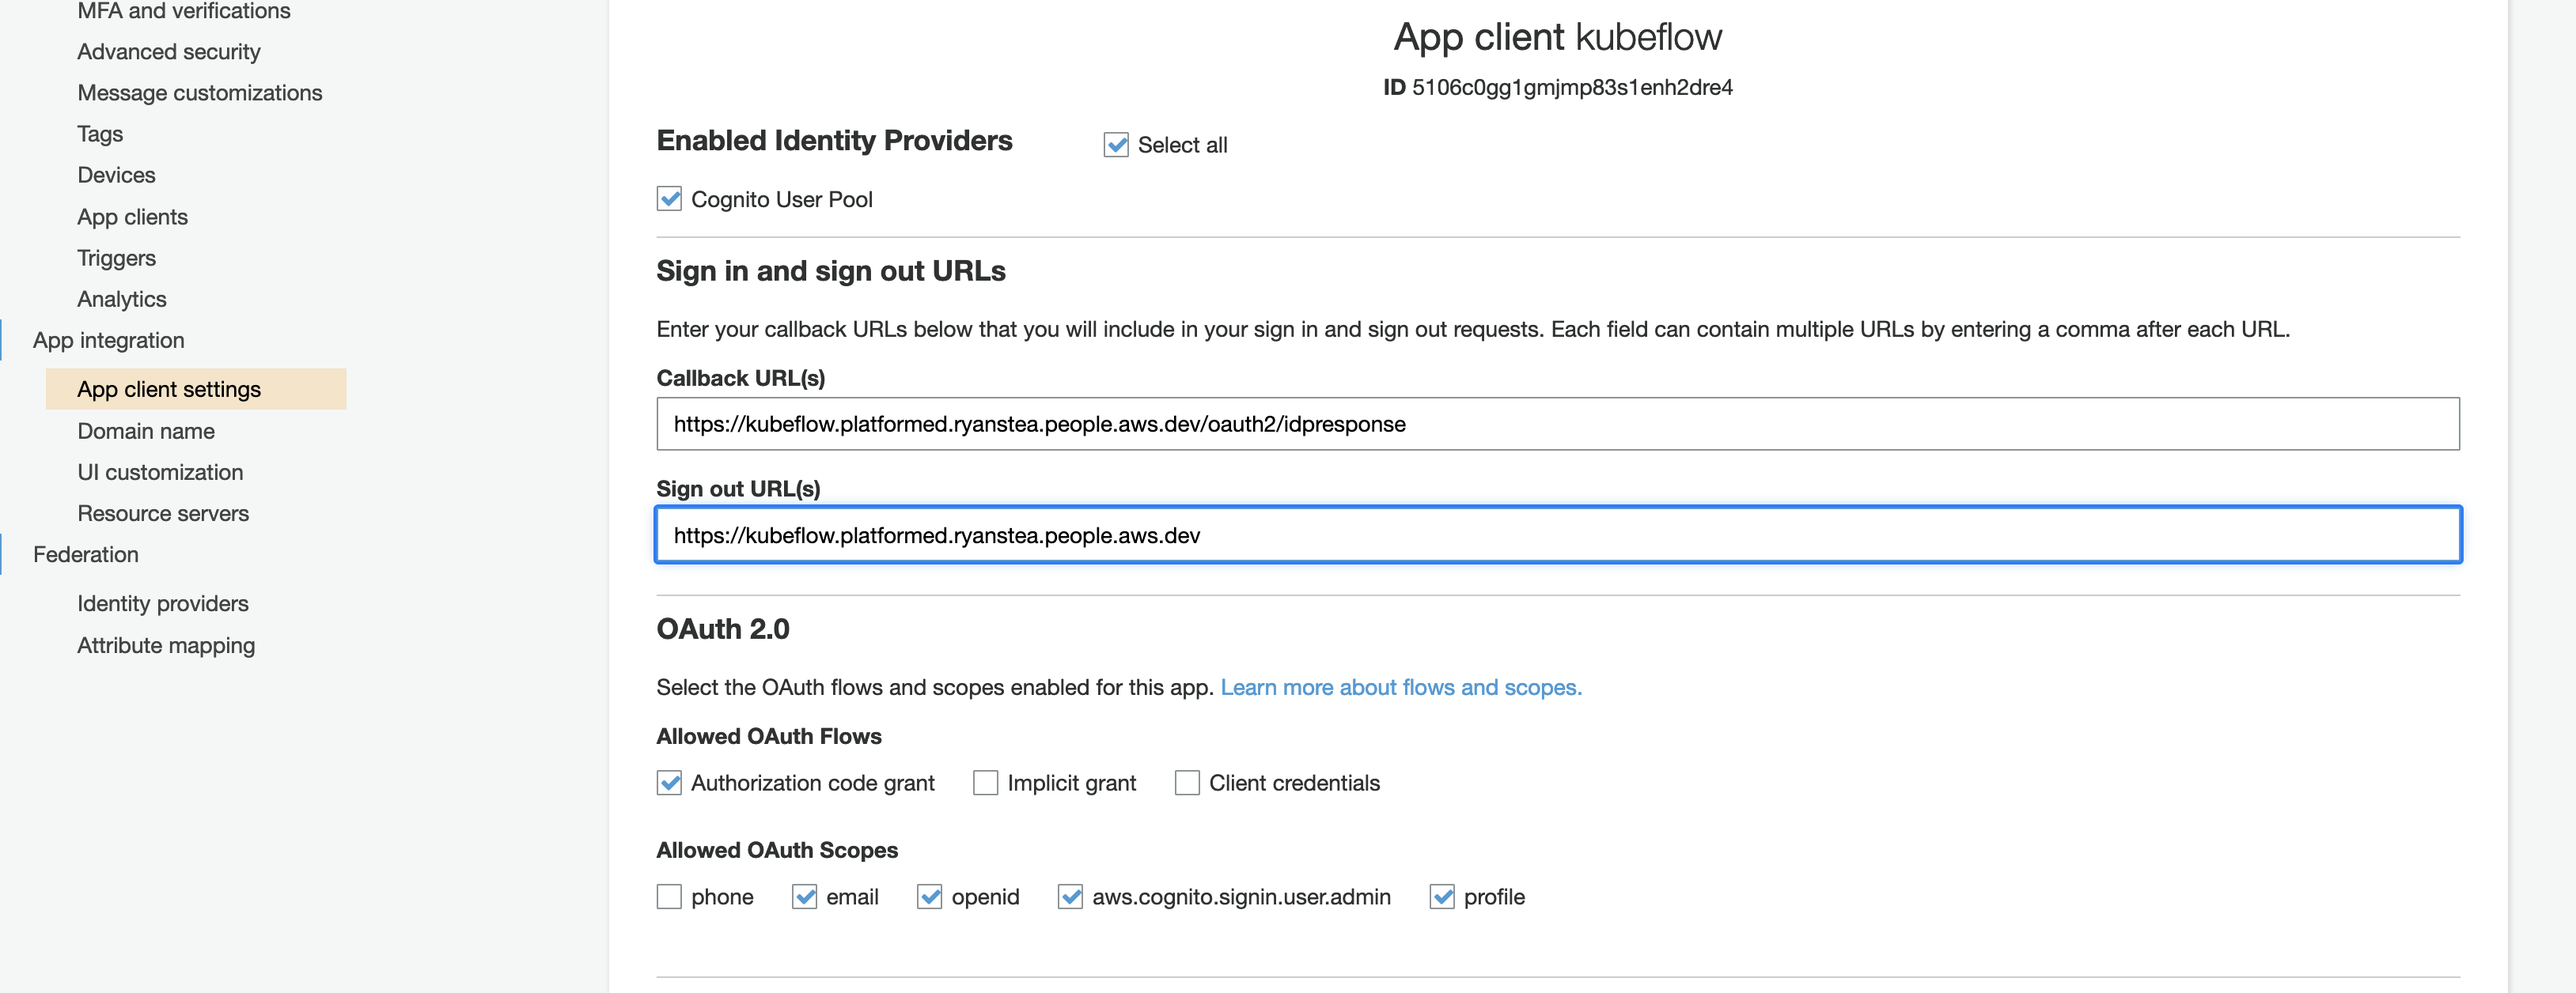
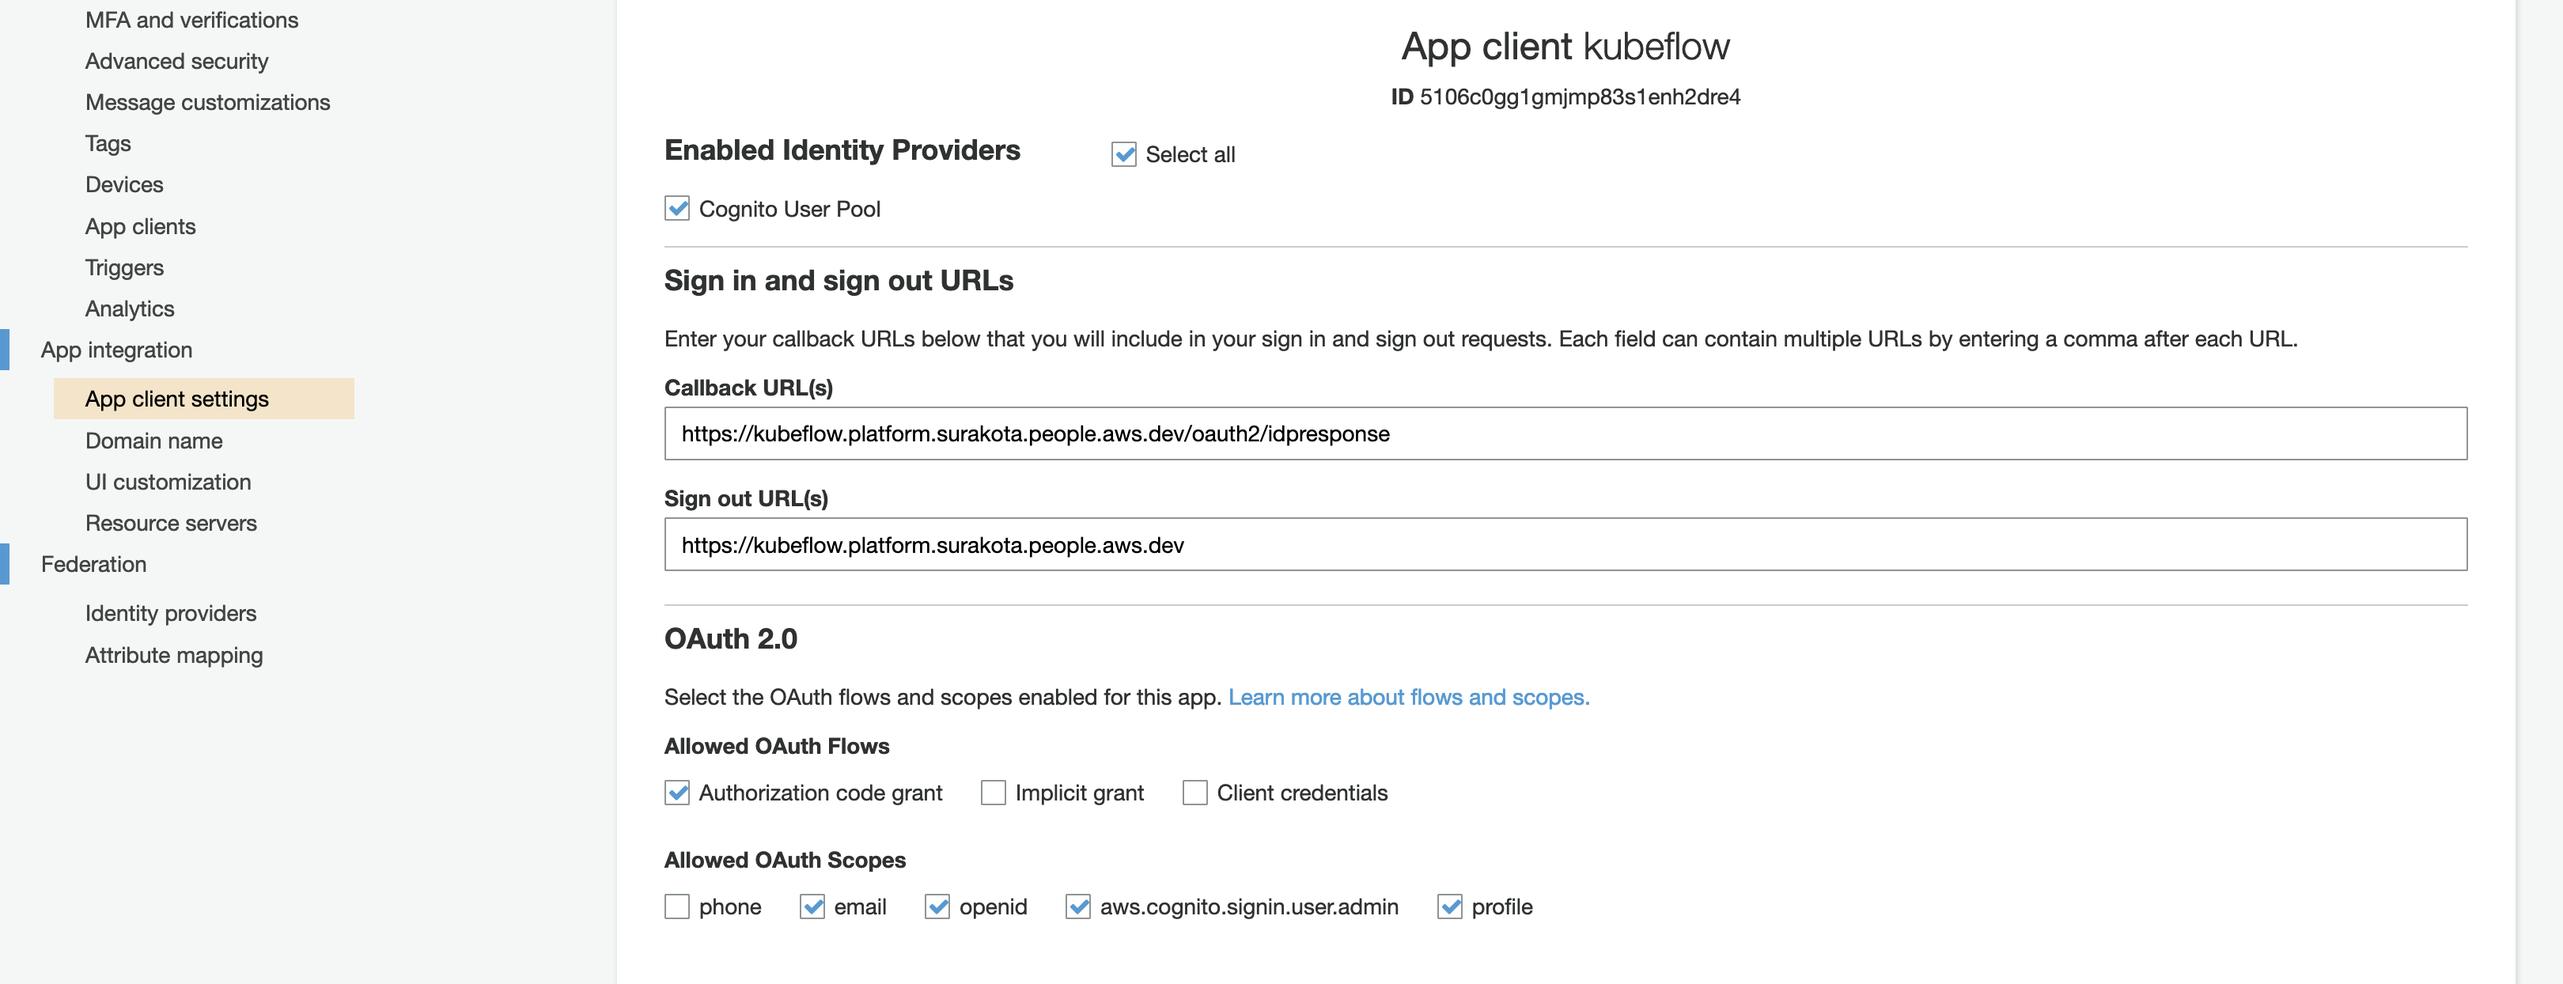
update readmes

diff --git a/components/aws-authservice/README.md b/components/aws-authservice/README.md
@@ -13,16 +13,39 @@ To install AWS AuthService apply them to your EKS Cluster. The manifests can be 
 kubectl apply -k ../../awsconfigs/common/aws-authservice/base/
 ```
 
-## Options
 These are configurable environment variables used by AWS AuthService in [params.env](../../awsconfigs/common/aws-authservice/base/params.env)
 
-`LOGOUT_URL`: The Cognito URL that will be redirected to on Logout.
+`LOGOUT_URL` [REQUIRED]: The Cognito URL that will be redirected to on Logout.
 
-`PORT`: The Port that AWS AuthService runs the HTTP server on. (Default Value of 8082). Additionally have to configure the port in the respective yaml files in [aws-authservice/base](../../awsconfigs/common/aws-authservice/base/)
+`PORT` [DEFAULT: 8082]: The Port that AWS AuthService runs the HTTP server on. 
+ - If not using Default, additionally have to configure the port in the respective yaml files detailed in the [Build and Test section](#configurable-options).
 
-## Build
+
+## Build and Test
+If you wish to make custom changes to AWS AuthService you can modify [main.go](main.go)
+
 The image can be built using Docker.
-- Docker: make build
+- make build
+Tag and push the image to ECR or any Container Image Library i.e(DockerHub)
+
+To use your new image you must modify
+  - [kustomization](../../awsconfigs/common/aws-authservice/base/kustomization.yaml#L11)
+
+If user has any custom changes to the manifests, they can choose to modify the [manifests](../../awsconfigs/common/aws-authservice/base/) 
+
+### Configurable Options
+In testing you must provide a LOGOUT_URL for AWS AuthService to redirect to in the [params.env](../../awsconfigs/common/aws-authservice/base/params.env) file.
+
+Additonally you may wish to change the PORT that AWS AuthService runs on to do so modify the following files
+- [params](../../awsconfigs/common/aws-authservice/base/params.env#L2)
+- [auth-deployment](../../awsconfigs/common/aws-authservice/base/auth-deployment.yaml#L26)
+- [auth-service](../../awsconfigs/common/aws-authservice/base/auth-service.yaml#L11)
+- [virtual-service](../../awsconfigs/common/aws-authservice/base/virtual-service.yaml#L18)
+
+Finally apply the manifests 
+```
+kubectl apply -k ../../awsconfigs/common/aws-authservice/base/
+```
 
 ## References
 [Logout Documentation](https://docs.aws.amazon.com/elasticloadbalancing/latest/application/listener-authenticate-users.html#authentication-logout)

diff --git a/docs/deployment/cognito/README.md b/docs/deployment/cognito/README.md
@@ -87,7 +87,8 @@ In this section, we will be creating certificate to enable TLS authentication at
     1. ![cognito-app-client-id](./images/cognito-app-client-id.png)
 1. In the `App client settings`, select `Authorization code grant` flow under OAuth-2.0 and check box `email`, `openid`, `aws.cognito.signin.user.admin` and `profile` scopes. Also check box `Enabled Identity Providers`. 
     1. Substitute `example.com` in this URL - `https://kubeflow.platform.example.com/oauth2/idpresponse` with your domain and use it as the Callback URL(s).
-    2. ![cognito-app-client-settings](./images/cognito-app-client-settings.png)
+    2. Substitute `example.com` in this URL - `https://kubeflow.platform.example.com` with your domain and use it as the Sign out URL(s).
+    3. ![cognito-app-client-settings](./images/cognito-app-client-settings.png)
 1. In the `Domain name` choose `Use your domain`, type `auth.platform.example.com` and select the `*.platform.example.com` AWS managed certificate you’ve created in N.Virginia. Creating domain takes up to 15 mins.
     1. ![cognito-active-domain](./images/cognito-active-domain.png)
     2. When it’s created, it will return the `Alias target` CloudFront address.
